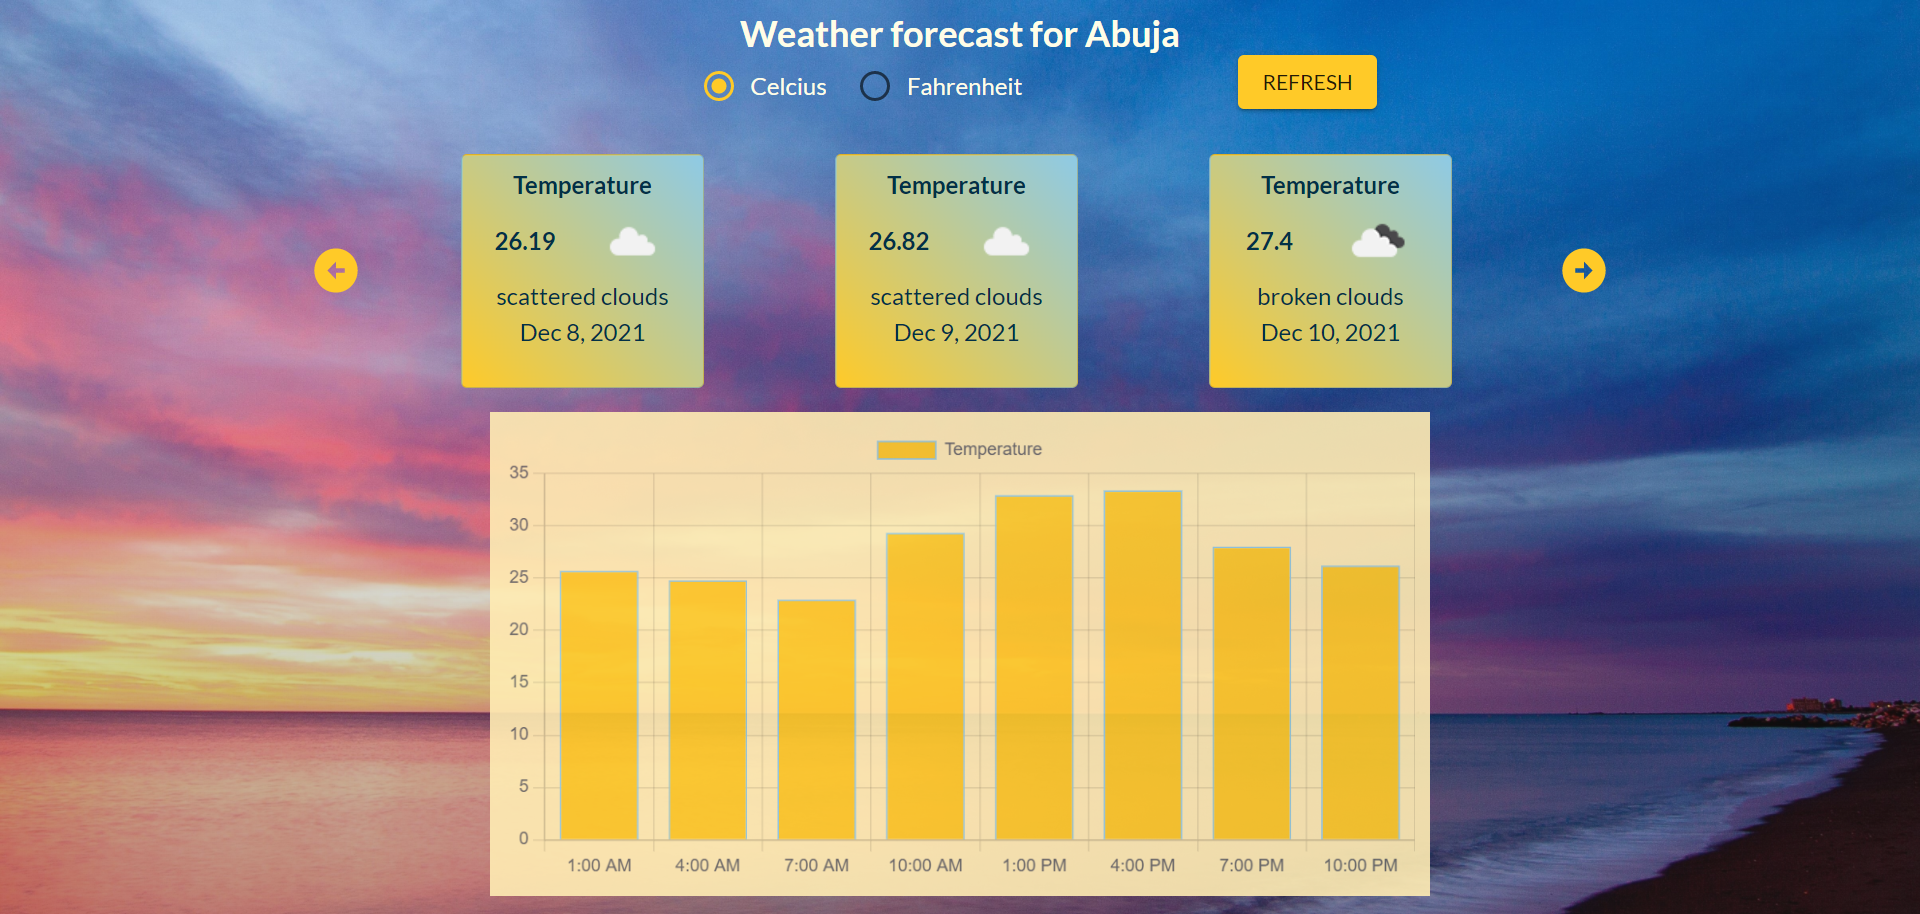
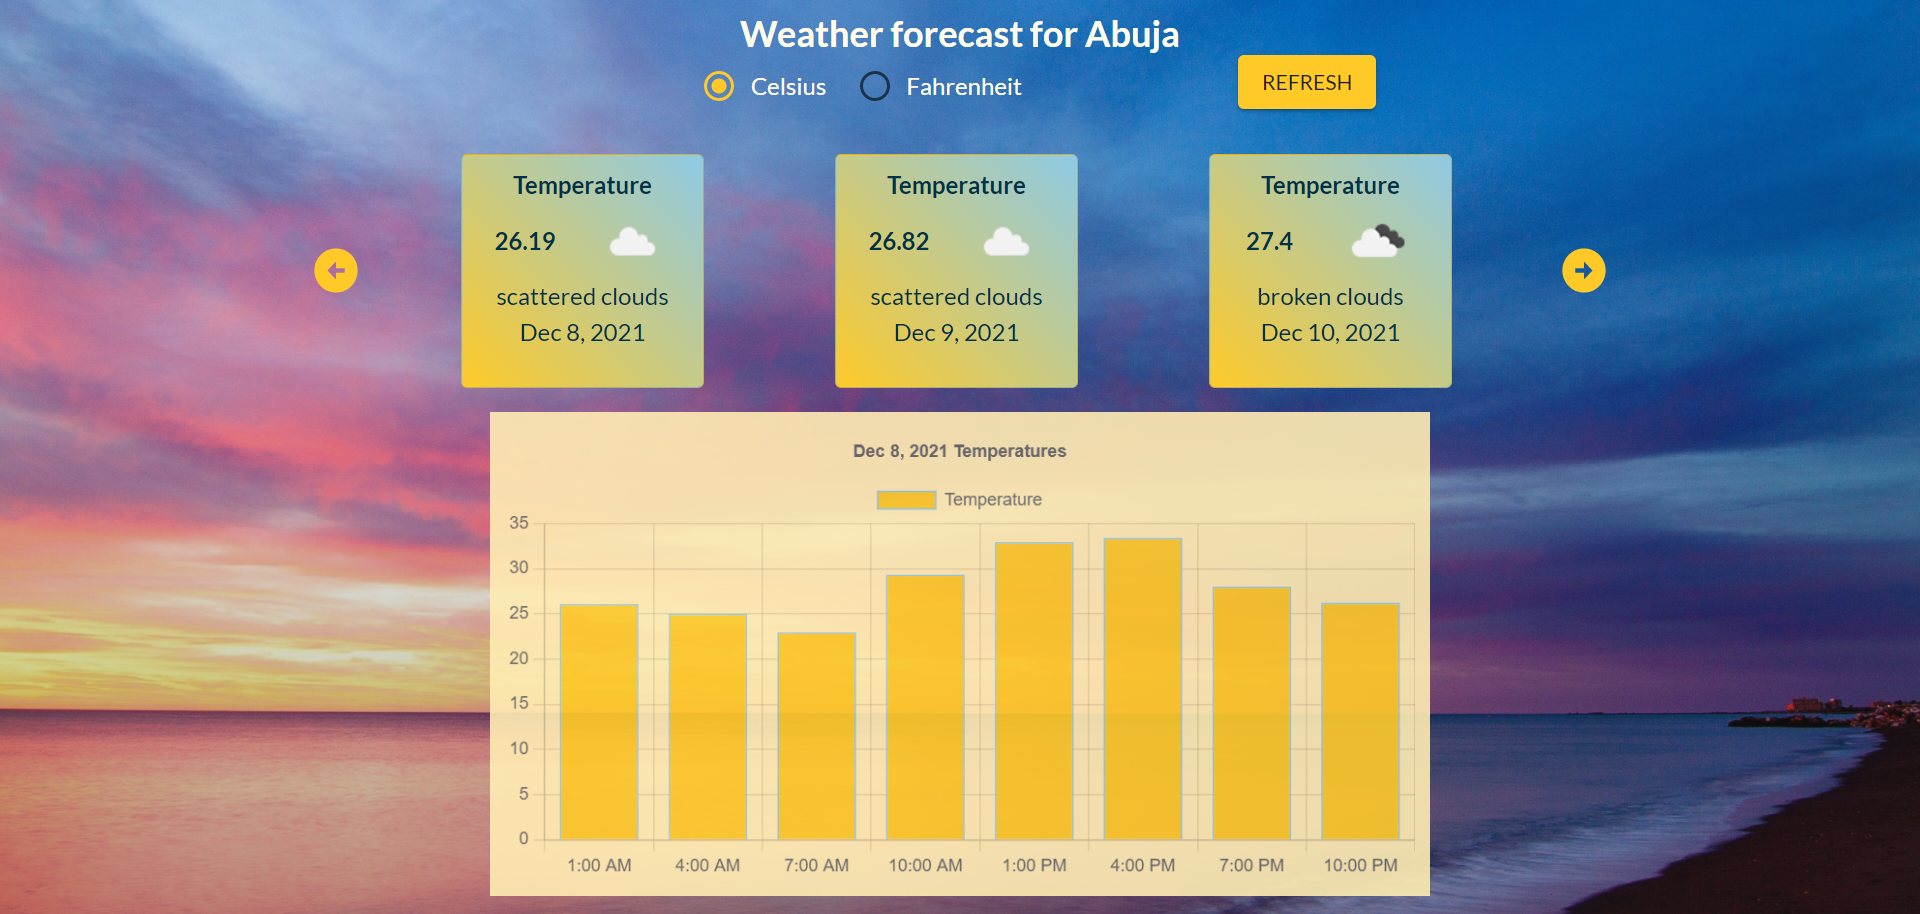
Update app screenshots

diff --git a/src/components/Barchart.js b/src/components/Barchart.js
@@ -31,11 +31,17 @@ const Barchart = ({ weather }) => {
     });
   }
 
+  const { date } = weather[0];
+
   const options = {
     responsive: true,
     plugins: {
       legend: {
         position: 'top',
+      },
+      title: {
+        display: true,
+        text: `${date} Temperatures`,
       },
     },
   };

diff --git a/README.md b/README.md
@@ -1,6 +1,10 @@
 # Weather-App
 > A simple web application that collects information from an API to provide weather forecast. Real live data is obtained from the OpenWeatherMap API.
 
+## Live demo
+
+[Weather App](https://weather-app-zee.netlify.app/)
+
 ### Weather App
 #### Desktop
 ![screenshot](./src/assets/desktop.png)
@@ -14,10 +18,6 @@
 - Redux
 - Material UI
 
-## Live demo
-
-[Weather App](https://weather-app-zee.netlify.app/)
-
 ## Getting Started
 
 ### To get a local copy run the following steps:
@@ -26,7 +26,6 @@
 - Open your terminal or command line
 - Run `git clone` and paste the link above
 - Open the folder with your code editor
-- Create a branch to work on
 - Run `npm install` to install all dependencies
 - Run `npm start` and go to `http:localhost:3000/` to launch the server.
 
